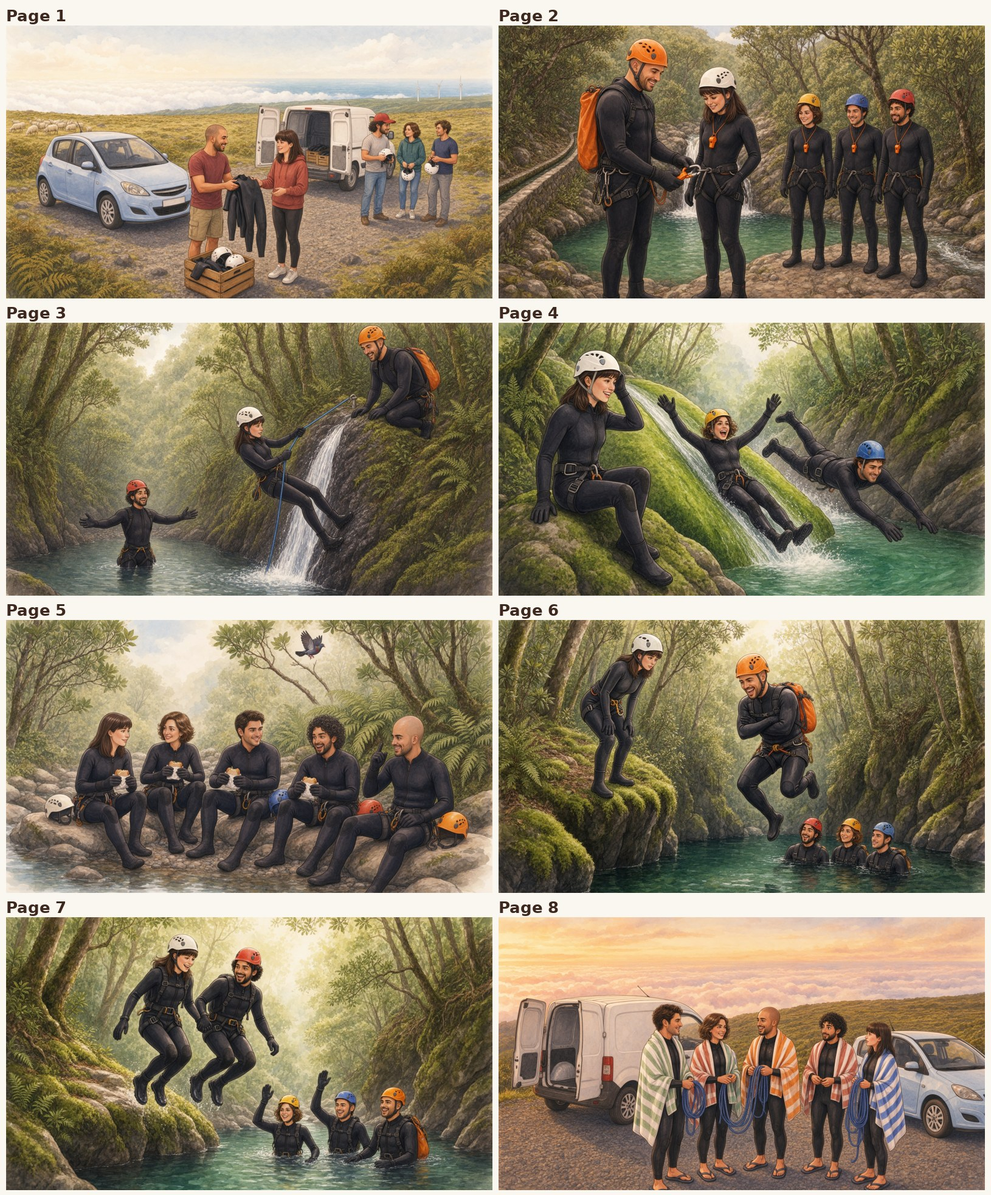
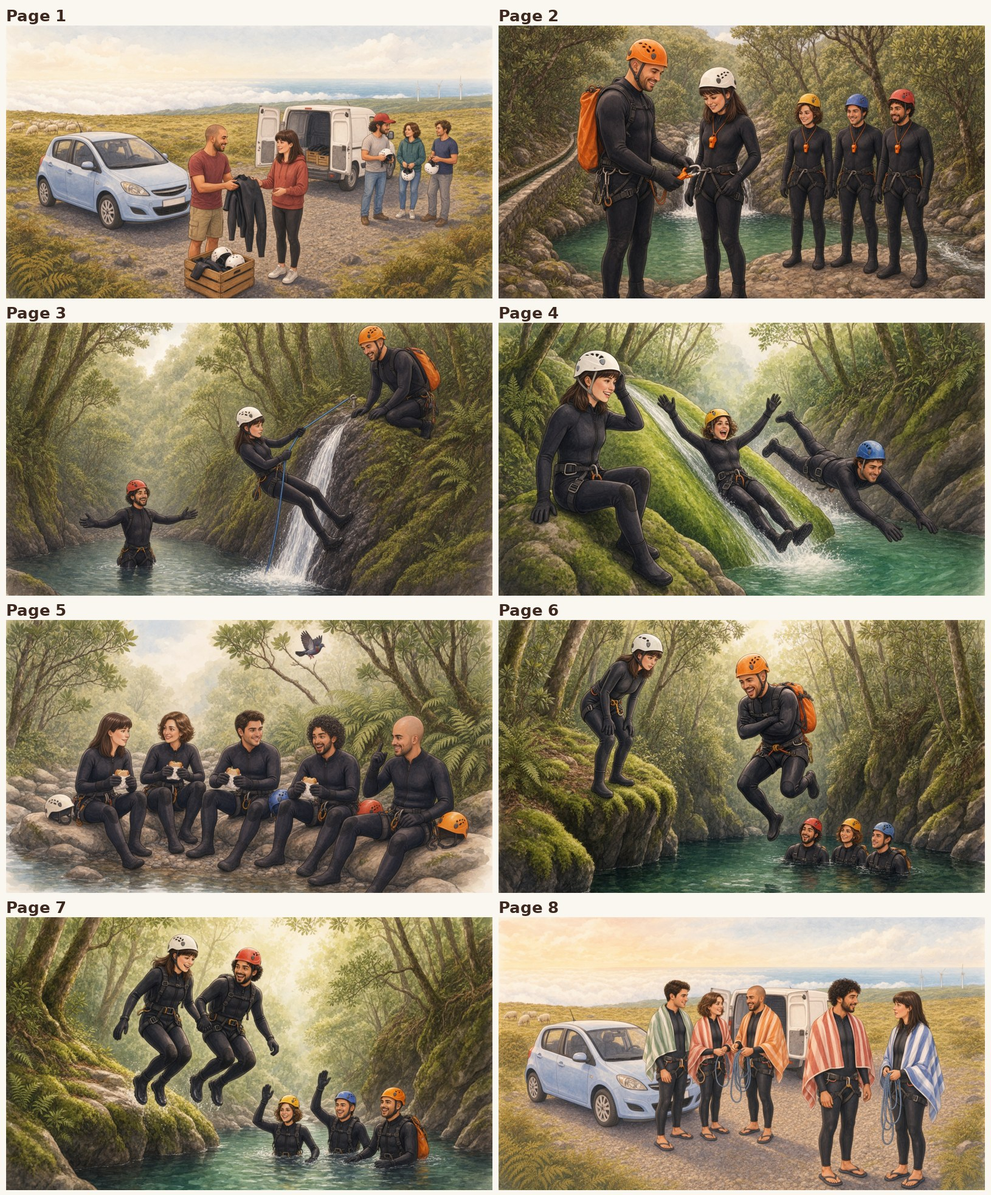
Book 18 p8 repainted to match p1's car and van positions; rule added for repeated places within a book
Claude-Session: https://claude.ai/code/session_01QETqfy7oCZmnPUVD333HTN

Changed region(s): [[0.4908, 0.7447, 1.0, 1.0]]

diff --git a/skills/madeira-book-illustrations/SKILL.md b/skills/madeira-book-illustrations/SKILL.md
@@ -34,6 +34,7 @@ Book 1 is the standard. Its two defining features: **clean fine linework** and *
 - **Off-style pictures get regenerated, not restyled.** A restyle anchors on the old picture's surface and only gets partway; a fresh generation with the style block gets much closer to book 1 (see Step 5).
 - **Faces come from the character sheet.** Whenever Rita, Ana, João, Marta or the dog is in the scene, the character sheet is a reference and the prompt points to it (see Step 3).
 - **Consistent within a book.** Outfits and recurring objects keep the same colour and design on every page of one book (and in any dream or memory picture of that day). Across books only the dog's black collar and leash and Rita's woven straw tote are fixed. Check earlier pages of the same book before approving.
+- **Same place twice in one book:** when a later page returns to a place from an earlier page of the same book (book 18: the parking spot on p1 and p8), generate it with the earlier page as the third reference and say "seen from exactly the same camera position as the third image", naming where each vehicle stands. Painted separately, the car and van swapped sides and the user noticed. Check vehicle positions page against page in Step 4.
 - **Consistent across books.** A place, room or object that appeared in an earlier book looks the same and is seen the same way: the same street view, the same flat, the same balcony view, the same sofa, bookcase and bed sizes (see Step 5, "Same place, same view").
 - **Show the action the words describe.** If the page text says someone does something (acorda, abre, compra, pede, bebe, sobe, desce, adormece no ombro), the picture should show it happening, not before or after. Check every action against the page text once more before building (book 11 page 8: Ana was asleep leaning away from João; a regional edit put her head on his shoulder). Words still not shown are flagged by `madeira-book-highlights` in `gen/flagged_actions.json`; when (re)drawing such a page, read that file and paint the flagged actions in.
 - **Real-world physics in every scene.** Weather and light behave as they really do, and are written into the scene text:

diff --git a/tools/b18/README.md b/tools/b18/README.md
@@ -3,7 +3,9 @@
 Status (Nov 15, 2026): text approved; user reviewed the pictures and asked to fix the flagged pages
 (darker forest is fine). Fixed by regional edits: p1 Tiago's cap forwards; p5 pigeon smaller and farther;
 p7 João's face (short wavy hair, light stubble, no curls/beard); p8 towels as planned (João green, Rita cobalt)
-and flip-flops instead of bare feet. New contact sheet `books/18-ribeira/art/contact18.jpg` shown to the user;
+and flip-flops instead of bare feet. The user then spotted the car and van had swapped places between p1 and p8:
+p8 repainted from scratch with page 1 as the third reference (same camera, car left, van behind with doors open) —
+`inputs18.json` key `p8v3`, thinking high. New contact sheet `books/18-ribeira/art/contact18.jpg` shown to the user;
 on their OK, go to the build. Krea plan is now Individual Pro, 20,000 units a month (was Max, 54,000).
 `sobe` (p7) stays untagged-highlight: flagged as not shown.
 
